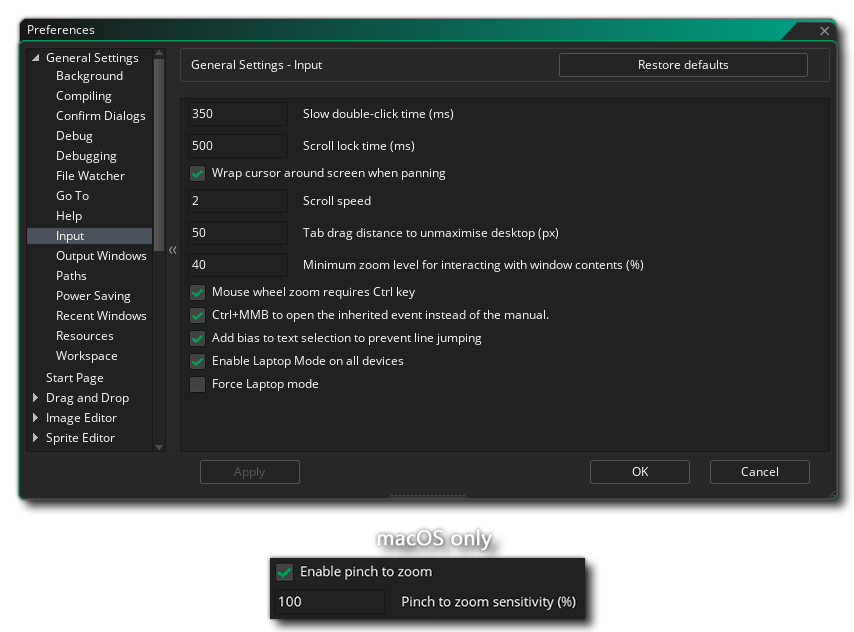
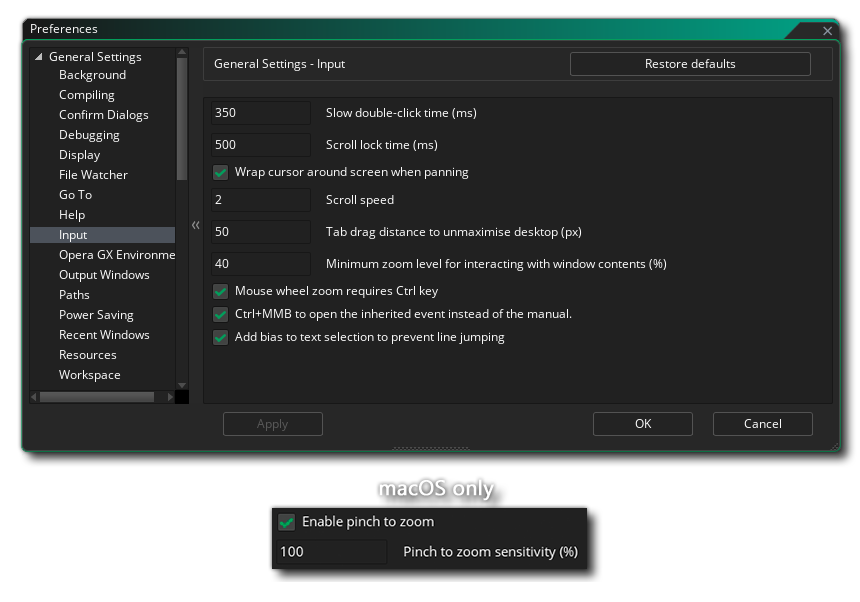
docs(feature): Remove Laptop Mode https://github.com/YoYoGames/YoYoStudio/issues/11019

Changed region(s): [[0.0, 0.0299, 1.0, 1.0]]

diff --git a/Manual/contents/IDE_Navigation/IDE_Input.htm b/Manual/contents/IDE_Navigation/IDE_Input.htm
@@ -61,14 +61,8 @@
   <p>Hotkey chords are configured the same way as regular shortcuts in the <a data-xref="{title}" href="../Setting_Up_And_Version_Information/IDE_Preferences/Redefine_Keys_Preferences.htm">Redefine Keys Preferences</a>.</p>
   <div data-conref="../assets/snippets/Note_Hotkey_chords_shift.hts"> </div>
   <p class="note"><span data-conref="../assets/snippets/Tag_note.hts"> </span> Hotkey chords are not supported in the <span data-keyref="Code_Editor1_Name">Legacy Code Editor</span>.</p>
-  <h2 id="other">Other</h2>
-  <p>Other than those methods of input, there is also a special mode for those people working on projects using a laptop as well as limited support for pen devices.</p>
-  <h3 id="laptop_mode">Laptop Mode</h3>
-  <p class="dropspot">If you are using <span data-keyref="GameMaker Name">GameMaker</span> on a laptop, then you will have a further option at the top of the IDE for Laptop Mode:</p>
-  <p class="dropspot"><img class="center" src="../assets/Images/IDE_Input/Getting_Started_LaptopMode.png" />This will be on by default but can be switched off if you prefer by toggling this button. Laptop mode combines with some tools in the IDE to make it a much better experience when using a touchpad, simplifying the 3 main mouse interactions: <strong>pan</strong>, <strong>zoom</strong> and <strong>scroll</strong>. It uses two modifier keys to do this: Left <span class="shortcut">Ctrl</span> / <span class="shortcut">Cmd</span> and Left <span class="shortcut">Alt</span>. When laptop mode is on, <em>Left</em> <span class="shortcut">Ctrl</span> / <img alt="CMD Icon" class="icon" height="20" src="../assets/Images/Icons/Icon_Cmd.png" width="55" /> and <em>Left </em><span class="shortcut">Alt</span> are &quot;reserved&quot; for mouse interactions like panning the Room Editor, where left <span class="shortcut">Ctrl</span> / <img alt="CMD Icon" class="icon" height="20" src="../assets/Images/Icons/Icon_Cmd.png" width="55" /> is zoom, left <span class="shortcut">Alt</span> is scroll and pan. Scrolling in laptop mode behaves just like panning, so it should be intuitive and precise enough so that you don&#39;t need to use the scrollbar.</p>
-  <p class="note"><span data-conref="../assets/snippets/Tag_note.hts"> </span> When holding these buttons, you simply have to move the mouse - not click nor drag, just move - and that if there is a general shortcut that normally requires the use of the <span class="shortcut">Ctrl</span> / <span class="shortcut">Cmd</span> or <span class="shortcut">Alt</span> keys, you would use the <em>Right </em>keys of the keyboard instead.</p>
-  <h3 id="touch_screen_support">Touch Screen Support</h3>
-  <p class="dropspot">One final thing we&#39;ll mention here is that the IDE for <span data-keyref="GameMaker Name">GameMaker</span> also has minimal support for touch screens. On all operating systems you can use the touch screen to click and drag items in the main workspace, and we support 2 simultaneous pointers, where a second tap will perform a right-click.</p>
+  <h2 id="touch_screen_support">Touch Screen Support</h2>
+  <p>One final thing we&#39;ll mention here is that the IDE for <span data-keyref="GameMaker Name">GameMaker</span> also has minimal support for touch screens. On all operating systems you can use the touch screen to click and drag items in the main workspace, and we support 2 simultaneous pointers, where a second tap will perform a right-click.</p>
   <p class="note"><span data-conref="../assets/snippets/Tag_note.hts"> </span> On Windows 8 and above, the <span data-keyref="GameMaker Name">GameMaker</span> IDE supports pen devices too.</p>
   <h2 id="related_topics">Related Topics</h2>
   <p>The following pages contain more detailed and specific information on navigating the IDE, as well as information on some navigation tools available to you:</p>
@@ -88,7 +82,7 @@
         <div style="float:right">Next: <a data-xref="{title}" href="../The_IDE/General_Asset_Editors.htm">General Asset Editors</a></div>
       </div>
     </div>
-    <h5><span data-keyref="Copyright Notice">© Copyright YoYo Games Ltd. 2024 All Rights Reserved</span></h5>
+    <h5><span data-keyref="Copyright Notice">© Copyright YoYo Games Ltd. 2025 All Rights Reserved</span></h5>
   </div>
   <!-- KEYWORDS
 IDE Navigation

diff --git a/Manual/contents/Setting_Up_And_Version_Information/IDE_Preferences/General/Input.htm b/Manual/contents/Setting_Up_And_Version_Information/IDE_Preferences/General/Input.htm
@@ -27,8 +27,6 @@
     <li><strong>Mouse wheel zoom requires Ctrl key</strong>: When this is checked all editors (and the main workspace) will have zoom enabled with <img alt="CONTROL Icon" class="icon" height="20" src="../../../assets/Images/Icons/Icon_Ctrl.png" width="55" /> / <img alt="CMD Icon" class="icon" height="20" src="../../../assets/Images/Icons/Icon_Cmd.png" width="55" /> + the mouse wheel <img alt="MMB Icon" class="icon" src="../../../assets/Images/Icons/Icon_MMB.png" />, while un-checking it will enable zoom with only the mouse wheel MMB Icon.</li>
     <li><strong>Ctrl + MMB to open the inherited event instead of the manual</strong>: When this is checked, holding <img alt="CONTROL Icon" class="icon" height="20" src="../../../assets/Images/Icons/Icon_Ctrl.png" width="55" /> / <img alt="CMD Icon" class="icon" height="20" src="../../../assets/Images/Icons/Icon_Cmd.png" width="55" /> + the middle mouse button <img alt="MMB Icon" class="icon" src="../../../assets/Images/Icons/Icon_MMB.png" /> in an object will open the objects inherited event (if it has one) rather than the manual.</li>
     <li><strong>Add bias to text selection to prevent line jumping</strong>: When this is checked, the conceived line height while selecting a single line in any text window will be padded, making it less prone to vertical imprecision. This is enabled by default.</li>
-    <li><strong>Enable laptop mode on all devices</strong>: Checking this will show the <a href="../../../IDE_Navigation/IDE_Input.htm">Laptop Mode</a> button on the IDE, enabling you to switch it on or off as required regardless of whether the device running <span data-keyref="GameMaker Name">GameMaker</span> is a laptop or not. This is unchecked by default.</li>
-    <li><strong>Force Laptop mode</strong>: This setting changes whether Laptop Mode is usable or not, and is enabled by default. You can disable this to ensure that Laptop Mode does not automatically get enabled when you start the IDE on a laptop.</li>
     <li><em>(macOS only)</em> <strong>Enable pinch to zoom</strong>: Enable or disable trackpad pinch to zoom behaviour.</li>
     <li><em>(macOS only)</em> <strong>Pinch to zoom sensitivity (%)</strong>: Change the sensitivity of the trackpad pinch to zoom behaviour.</li>
   </ul>
@@ -42,7 +40,7 @@
         <div style="float:right">Next: <a href="Output_Windows.htm">Output Window Preferences</a></div>
       </div>
     </div>
-    <h5><span data-keyref="Copyright Notice">© Copyright YoYo Games Ltd. 2023 All Rights Reserved</span></h5>
+    <h5><span data-keyref="Copyright Notice">© Copyright YoYo Games Ltd. 2025 All Rights Reserved</span></h5>
   </div>
   <!-- KEYWORDS
 Preferences - General, Input

diff --git a/Manual/contents/Introduction/Workspaces.htm b/Manual/contents/Introduction/Workspaces.htm
@@ -122,10 +122,6 @@
         <td class="icons"><img alt="Open Close Docks Icon" src="../assets/Images/Icons/Icon_Docking.png" /></td>
         <td class="text">This will toggle all the docked elements between hidden and unhidden.</td>
       </tr>
-      <tr>
-        <td class="icons"><img alt="Laptop Mode" src="../assets/Images/Icons/Icon_LaptopMode.png" /></td>
-        <td class="text">This will toggle laptop mode on and off (This will only appear if you are currently using a laptop - see the section on <a data-xref="{title}" href="../IDE_Navigation/IDE_Input.htm">IDE Input And Navigation</a> for more details)</td>
-      </tr>
     </tbody>
   </table>
   <p> </p>
@@ -137,7 +133,7 @@
         <div style="float:right">Next: <a data-xref="{title}" href="The_Asset_Browser.htm">The Asset Browser</a></div>
       </div>
     </div>
-    <h5><span data-keyref="Copyright Notice">© Copyright YoYo Games Ltd. 2024 All Rights Reserved</span></h5>
+    <h5><span data-keyref="Copyright Notice">© Copyright YoYo Games Ltd. 2025 All Rights Reserved</span></h5>
   </div>
   <!-- KEYWORDS
 Workspaces
